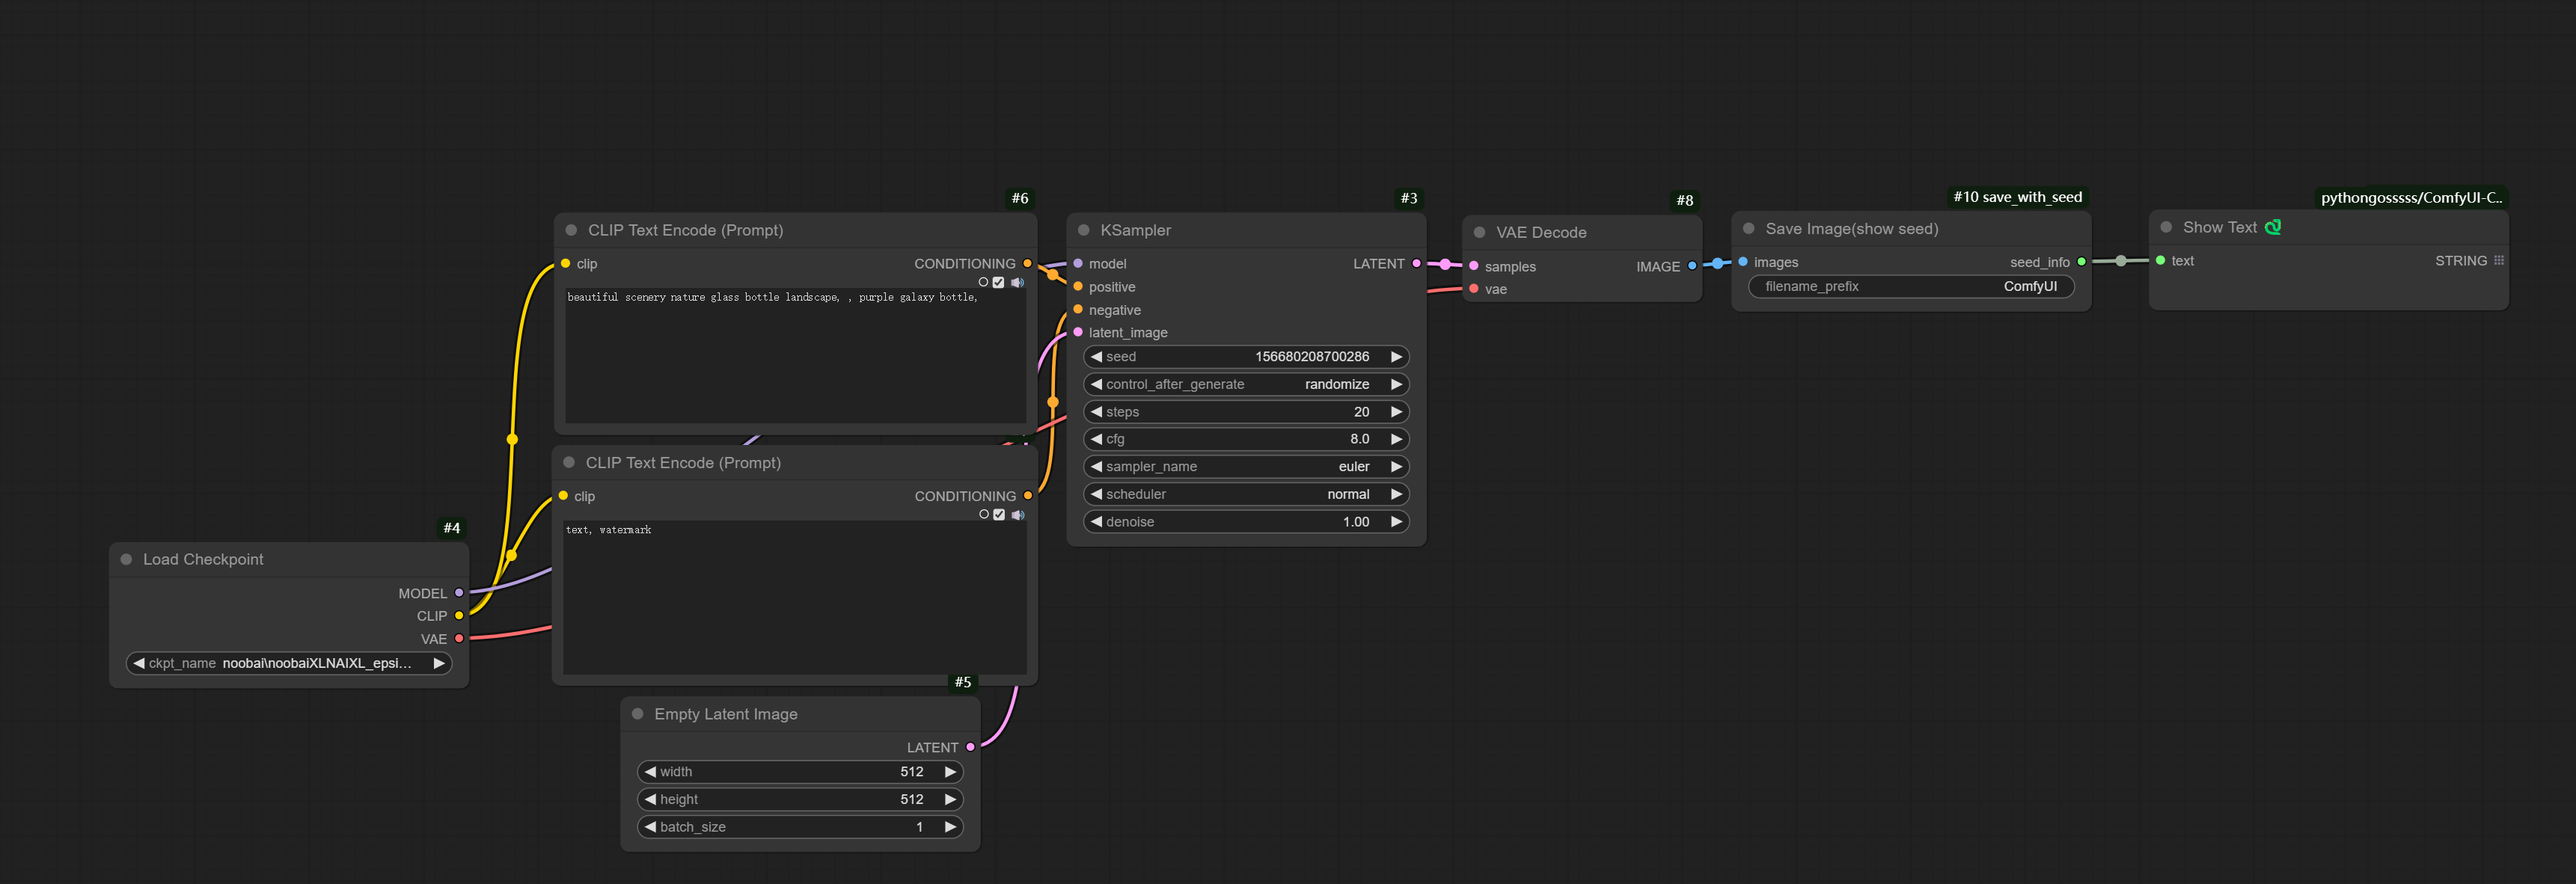
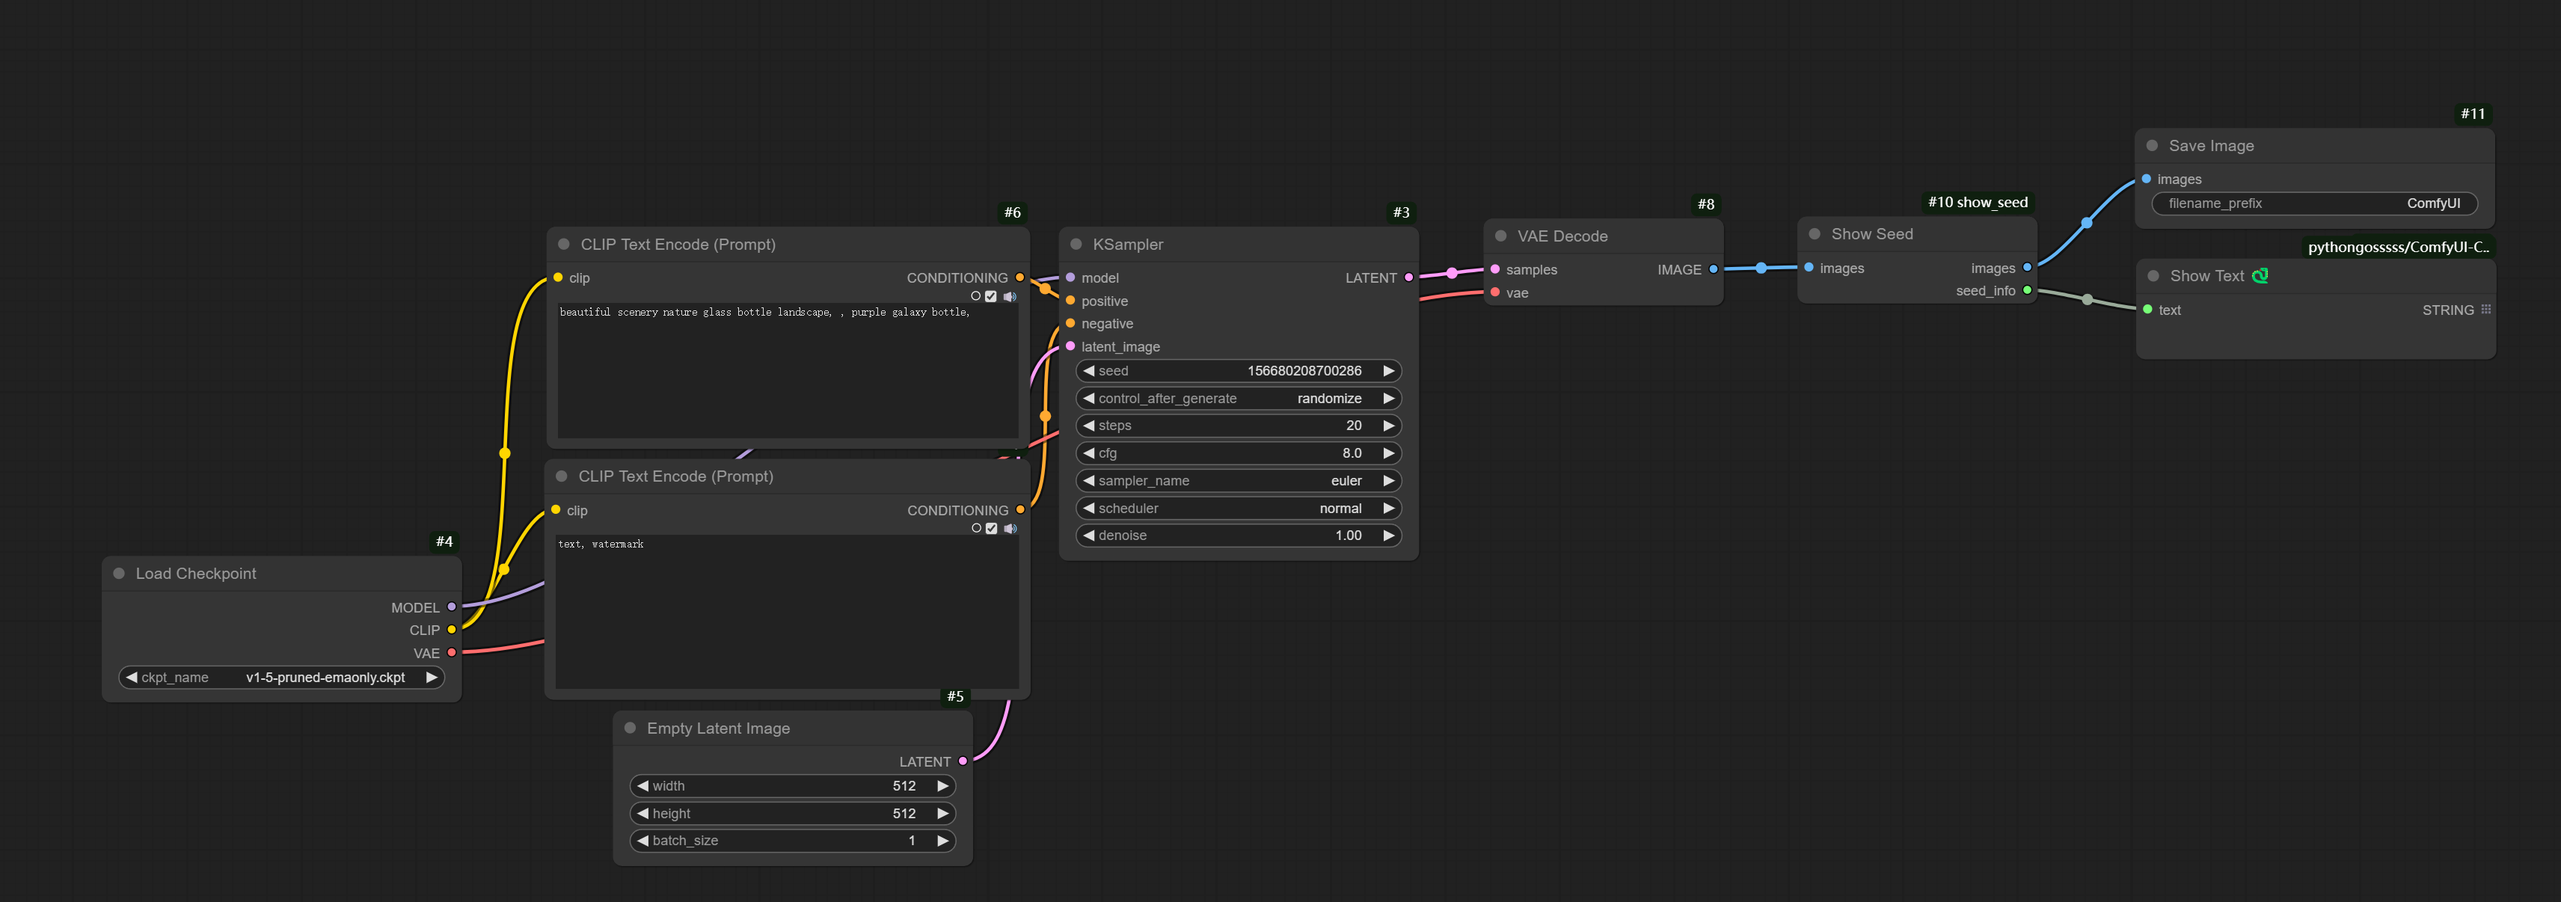
Updated node functions

diff --git a/node.py b/node.py
@@ -1,30 +1,18 @@
-import os
-import numpy as np
-import json
-from PIL import Image
-from PIL.PngImagePlugin import PngInfo
-
 class ShowSeed:
-    def __init__(self):
-        self.output_dir = os.path.join(os.path.dirname(os.path.dirname(__file__)), 'output')
-        self.type = "output"
-
     @classmethod
     def INPUT_TYPES(cls):
         return {
             "required": {
-                "images": ("IMAGE", ),
-                "filename_prefix": ("STRING", {"default": "ComfyUI"}),
+                "images": ("IMAGE",),
             },
             "hidden": {
                 "prompt": "PROMPT",
             }
         }
 
-    RETURN_TYPES = ("STRING",)
-    RETURN_NAMES = ("seed_info",)
-    FUNCTION = "save_images"
-    OUTPUT_NODE = True
+    RETURN_TYPES = ("IMAGE", "STRING",)
+    RETURN_NAMES = ("images", "seed_info",)
+    FUNCTION = "process"
     CATEGORY = "image"
 
     def extract_seed(self, prompt):
@@ -44,48 +32,18 @@ class ShowSeed:
             print(f"Error extracting seed: {str(e)}")
             return None
 
-    def save_images(self, images, filename_prefix="ComfyUI", prompt=None):
-        os.makedirs(self.output_dir, exist_ok=True)
-        results = list()
+    def process(self, images, prompt=None):
+        # 提取seed
         seed_value = self.extract_seed(prompt)
         seed_text = f"Seed: {seed_value}" if seed_value is not None else "Seed not found"
+        
+        # 直接返回图像和seed信息
+        return (images, seed_text)
 
-        for image in images:
-            i = 255. * image.cpu().numpy()
-            img = Image.fromarray(np.clip(i, 0, 255).astype(np.uint8))
-            
-            counter = 1
-            while True:
-                filename = f"{filename_prefix}_{counter:05}_.png"
-                save_path = os.path.join(self.output_dir, filename)
-                if not os.path.exists(save_path):
-                    break
-                counter += 1
-
-            metadata = PngInfo()
-            if isinstance(prompt, tuple):
-                workflow = prompt[1]
-            else:
-                workflow = prompt
-
-            if workflow is not None:
-                metadata.add_text("prompt", json.dumps(workflow))
-                metadata.add_text("workflow", json.dumps(workflow))
-
-            img.save(save_path, format='PNG', pnginfo=metadata)
-            results.append({
-                "filename": filename,
-                "path": save_path,
-                "type": "output",
-            })
-
-        return {"ui": {"images": results}, "result": (seed_text,)}
-
-# Node Mapping
+# 节点映射
 NODE_CLASS_MAPPINGS = {
-    "Save Image(show seed)": ShowSeed
+    "Show Seed": ShowSeed
 }
-
 NODE_DISPLAY_NAME_MAPPINGS = {
-    "Save Image(show seed)": "Save Image(show seed)"
+    "Show Seed": "Show Seed"
 }

diff --git a/README.md b/README.md
@@ -1,12 +1,12 @@
 # ComfyUI Show Seed
 
-A ComfyUI custom node that saves images while displaying the seed value used in generation.
+A ComfyUI custom node that extracts and displays the seed value used in image generation.
 
 ## Features
 
-- Saves images with automatic numbering
-- Extracts and displays seed value from KSampler nodes
-- Preserves workflow data in image metadata
+- Extracts seed value from KSampler nodes
+- Passes through image data unchanged
+- Simple integration with existing ComfyUI workflows
 
 ## Installation
 
@@ -18,14 +18,23 @@ git clone https://github.com/dreamhartley/ComfyUI_show_seed.git
 
 ## Usage
 
-1. Find the node under the "image" category as "Save Image(show seed)"
-2. Connect your image output to this node
-3. Set your desired filename prefix
-4. The node will save your image and display the seed used in generation
+1. Find the node as "Show Seed"
+2. Connect your image output to this node's image input
+3. Connect the image output to a Save Image node
+4. Connect the seed_info output to a Text node to display the seed value
 
 ## Example Workflow
 
 ![Example Workflow](example/workflow.png)
+
+The node works as a pass-through for image data while extracting the seed information:
+- Input image → Show Seed → Save Image node
+- Show Seed (seed_info) → Text node
+
+## Node Outputs
+
+- **images**: Original image data (connect to Save Image node)
+- **seed_info**: Extracted seed value (connect to Text node)
 
 ## License
 
